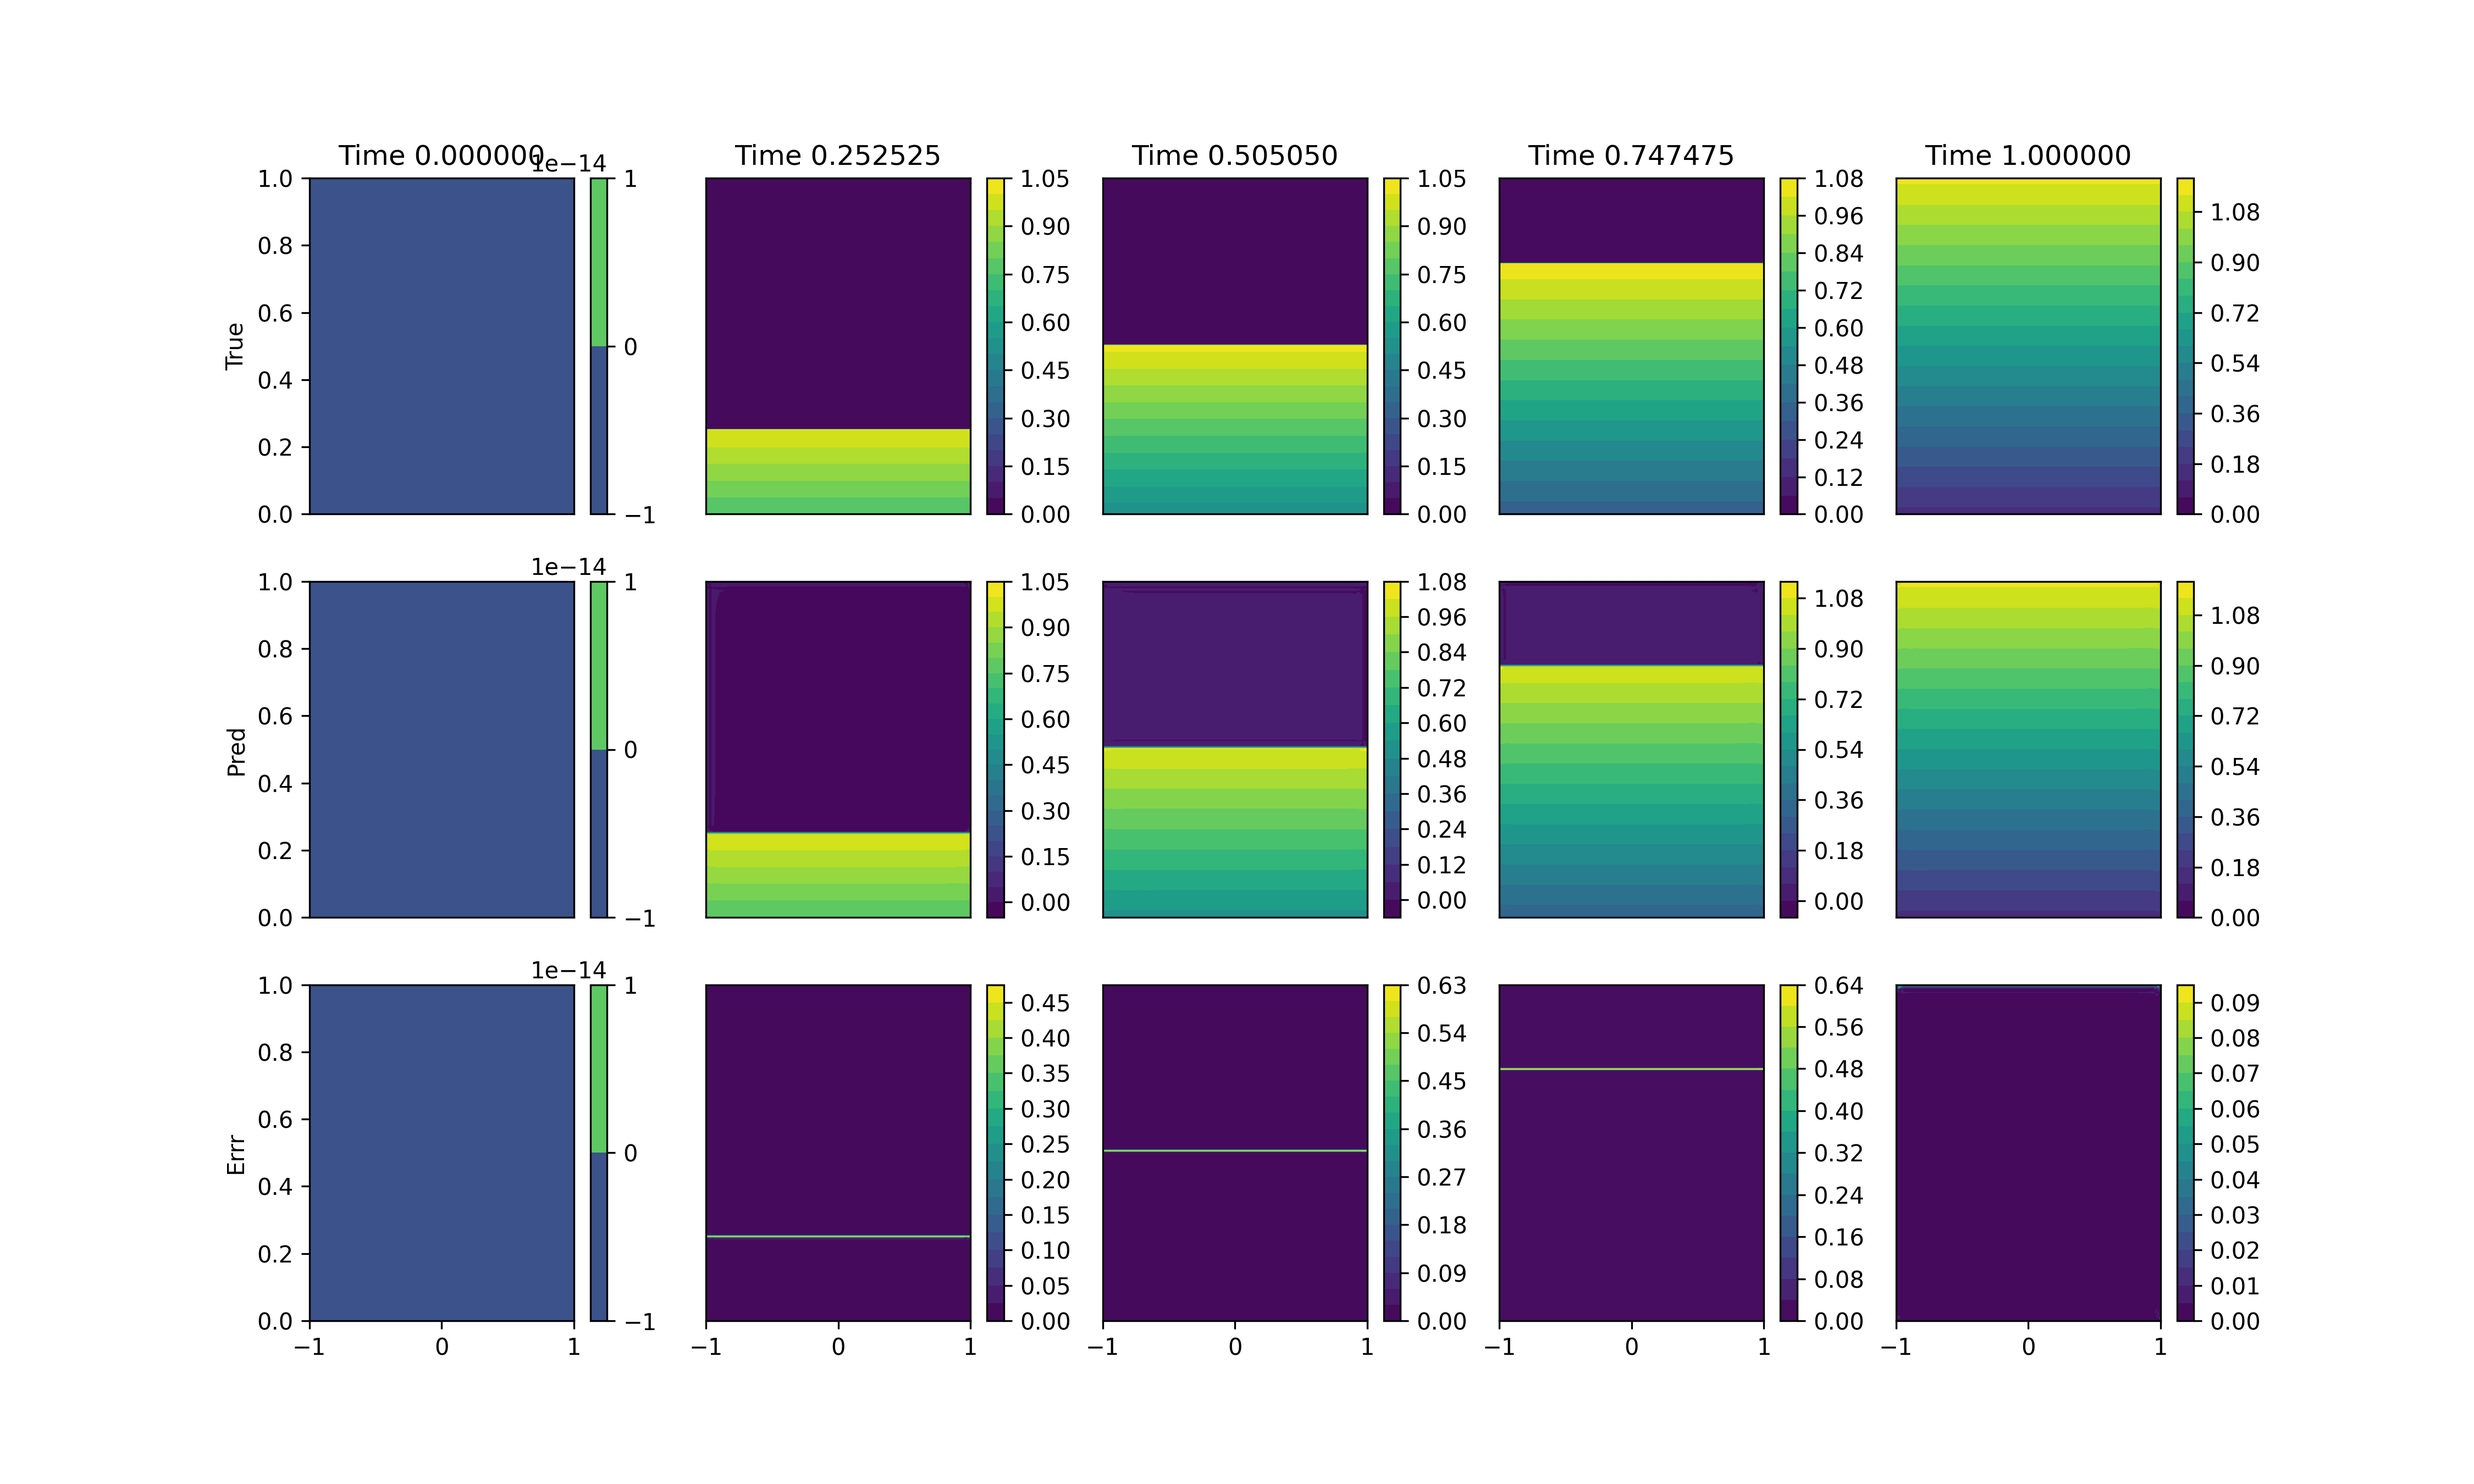
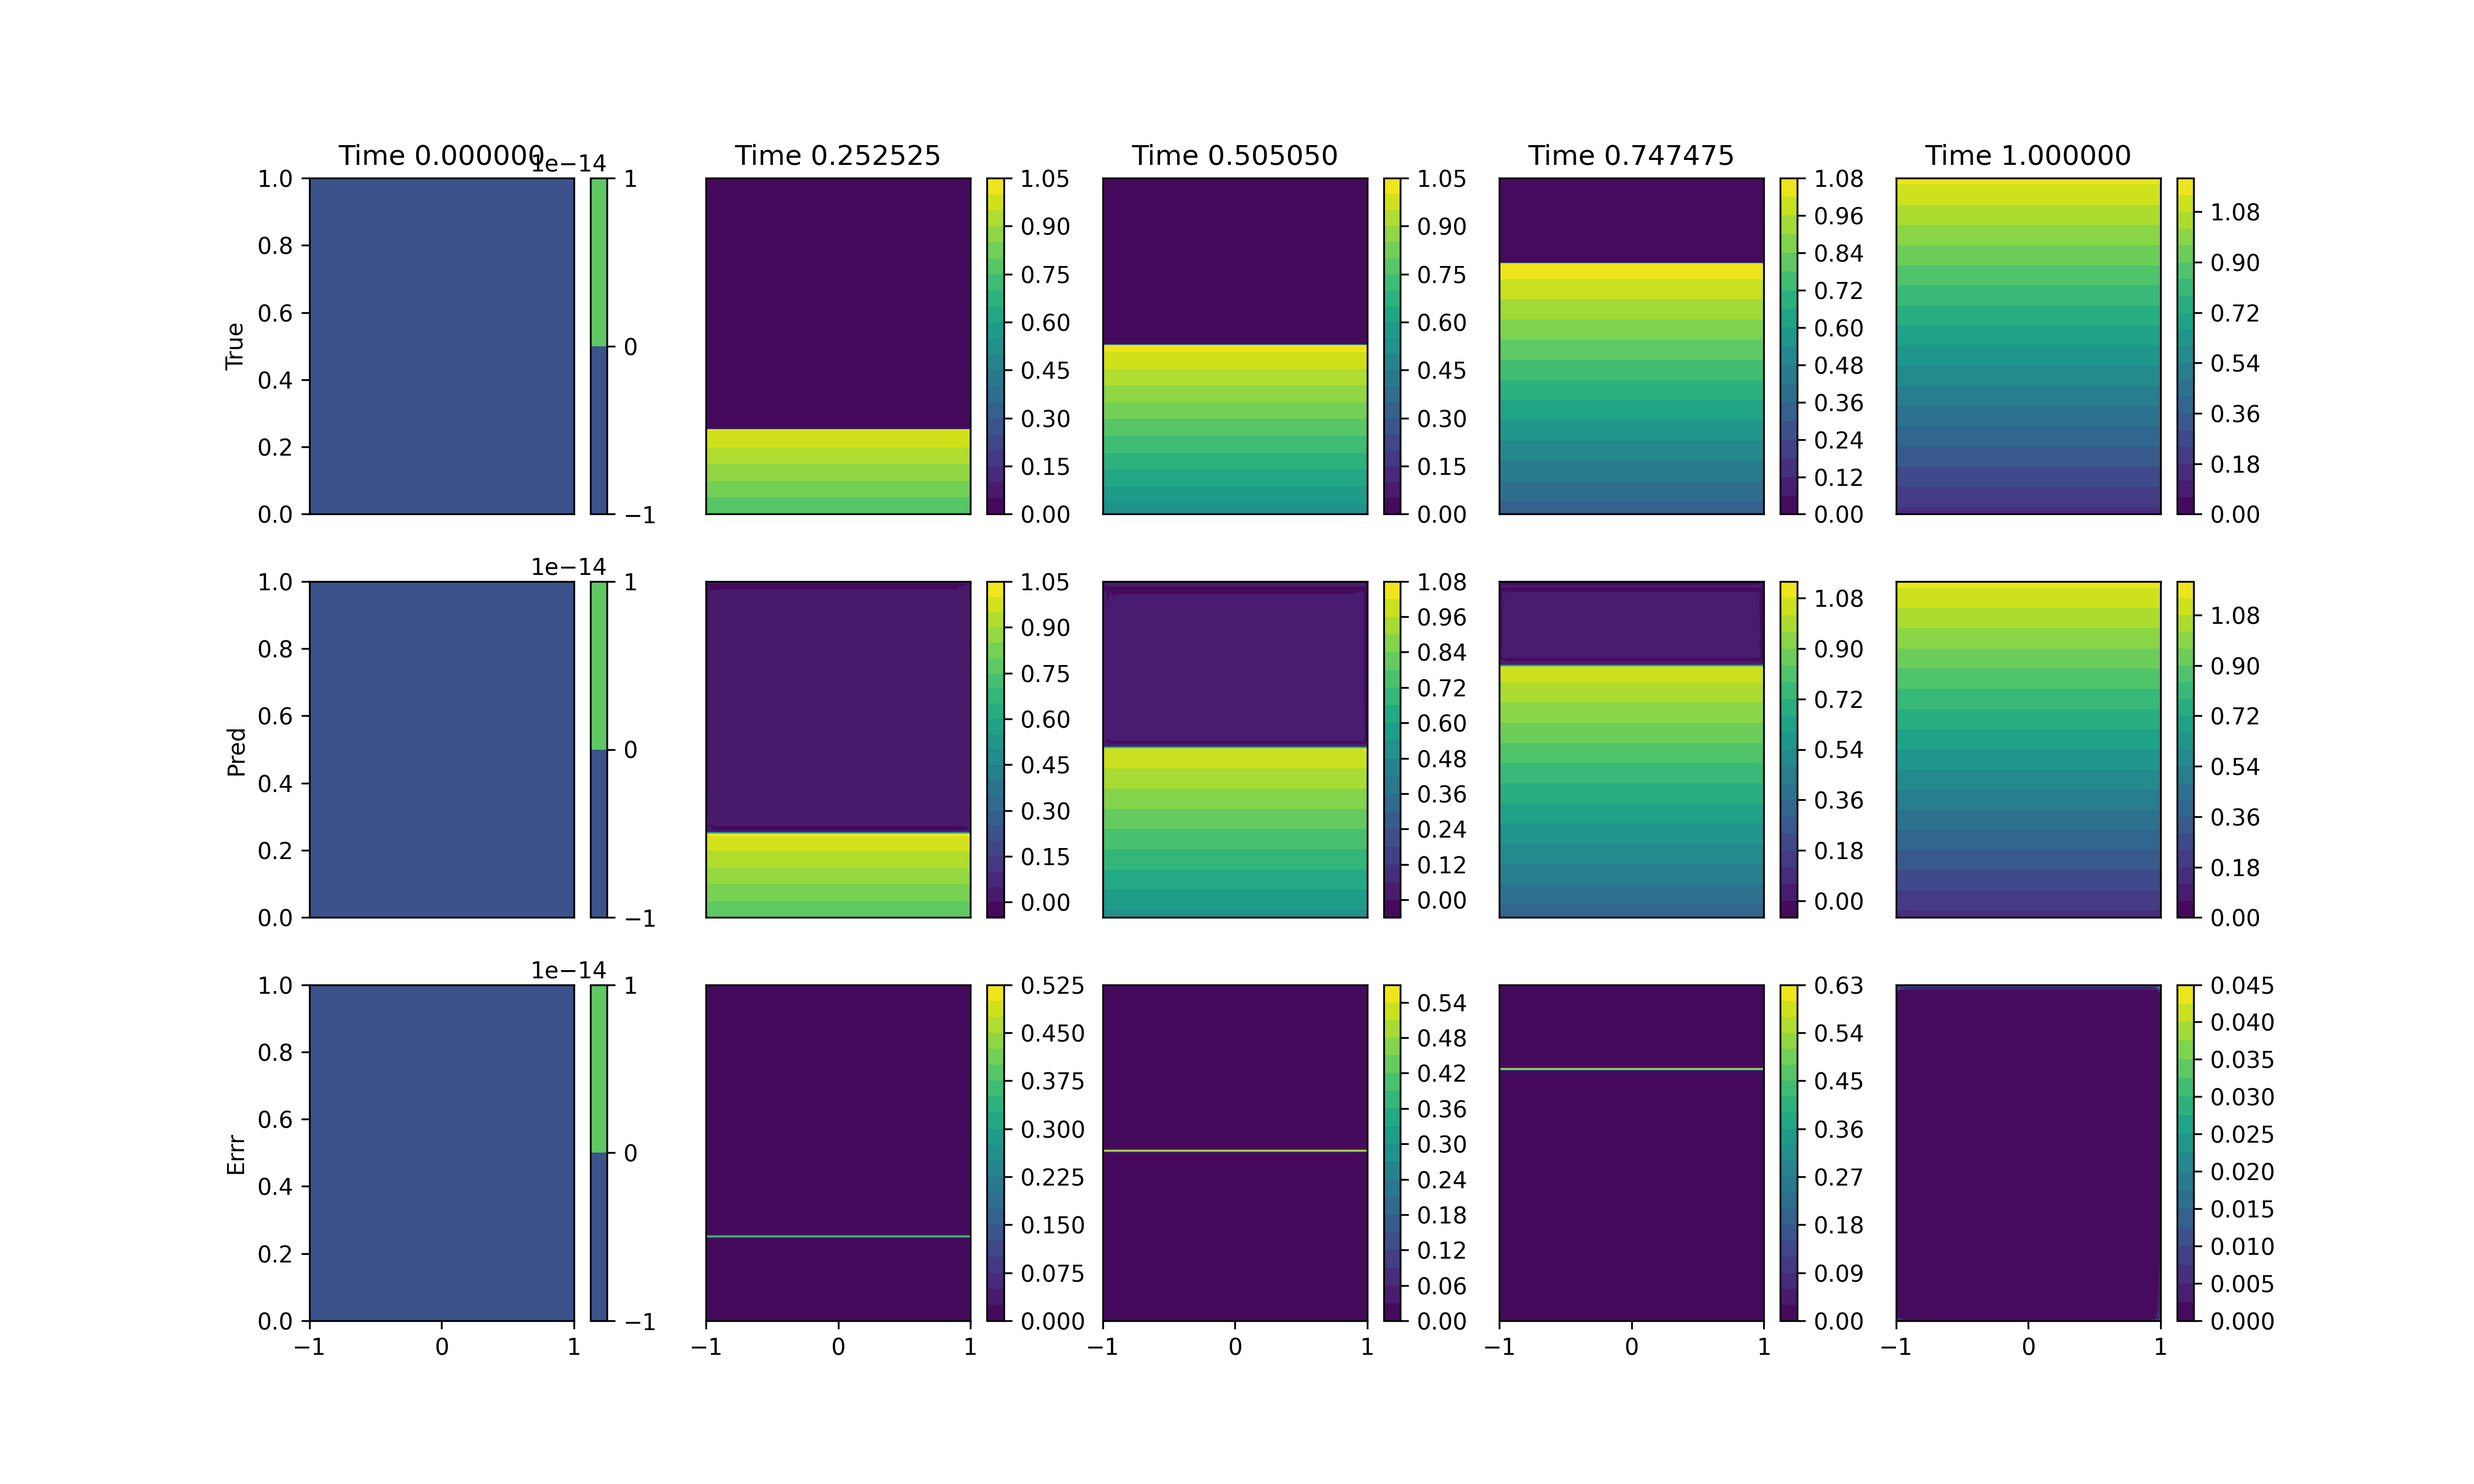
autoregressive plots

diff --git a/sandbox/__main__.py b/sandbox/__main__.py
@@ -15,6 +15,27 @@ import argparse
 import sandbox
 import mlutils
 
+def train_loop(model, lrs=None, nepochs=None, **kw):
+
+    if lrs is None:
+        lrs = [1e-3, 5e-4, 1e-4, 5e-5, 1e-5]
+
+    if nepochs is None:
+        nepochs = [2, 5, 10, 10, 10]
+
+    assert len(lrs) == len(nepochs)
+
+    for i in range(len(lrs)):
+        kw = {
+            **kw,
+            "lr" : lrs[i],
+            "nepochs" : nepochs[i],
+        }
+        trainer = mlutils.Trainer(model, data, **kw)
+        trainer.train()
+
+    return model
+
 class MaskedUNet(nn.Module):
     def __init__(self, shape, ci, co, k):
         super().__init__()
@@ -31,8 +52,9 @@ class MaskedUNet(nn.Module):
 
 def train_cnn_nextstep(device, outdir, resdir, name, train=True):
 
-    modelfile = outdir + "cnn_nextstep_" + name + ".pth"
-    imagefile = resdir + "cnn_nextstep_" + name + ".png"
+    modelfile  = outdir + "cnn_nextstep_" + name + ".pth"
+    imagefile1 = resdir + "cnn_nextstep_" + name + ".png"
+    imagefile2 = resdir + "cnn_nextstep_" + name + "_autoregressive" + ".png"
 
     # DATA
     if name == "hourglass":
@@ -55,29 +77,32 @@ def train_cnn_nextstep(device, outdir, resdir, name, train=True):
 
     # TRAIN
     if train:
-        lrs = [1e-3, 5e-4, 1e-4, 5e-5, 1e-5]
-        nes = [   2,    5,   10,   10,   10]
-        for i in range(len(lrs)):
-            kw = {
-                "device" : device,
-                "lr" : lrs[i],
-                "_batch_size" : 1,
-                "nepochs" : nes[i],
-            }
-            trainer = mlutils.Trainer(model, data, **kw)
-            trainer.train()
-
+        train_loop(model, device=device, _batch_size=1)
         torch.save(model.to("cpu").state_dict(), modelfile)
 
     # VISUALIZE
+    model.eval()
     model.load_state_dict(torch.load(modelfile, weights_only=True))
 
-    model.eval()
-    xztT, _ = data[:]
-    pred = (model(xztT) + xztT[:, -1].unsqueeze(1)).squeeze(1)
+    with torch.no_grad():
+        xztT, _ = data[:]
 
-    fig = shape.comparison_plot(pred, nextstep=True)
-    fig.savefig(imagefile, dpi=300)
+        pred1 = (model(xztT) + xztT[:, -1].unsqueeze(1)).squeeze(1)
+        pred1 = torch.cat([xztT[0, -1].unsqueeze(0), pred1], dim=0)
+
+        fig1 = shape.comparison_plot(pred1)
+        fig1.savefig(imagefile1, dpi=300)
+
+        preds2 = []
+        preds2.append(xztT[0, -1].unsqueeze(0))
+        for i in range(xztT.shape[0]):
+            pred2 = preds2[-1]
+            pred2 = pred2 + model(xztT[i].unsqueeze(0)).squeeze(1)
+            preds2.append(pred2)
+        pred2 = torch.cat(preds2, dim=0)
+
+        fig2 = shape.comparison_plot(pred2)
+        fig2.savefig(imagefile2, dpi=300)
 
     return
 
@@ -106,18 +131,7 @@ def train_cnn(device, outdir, resdir, name, train=True):
 
     # TRAIN
     if train:
-        lrs = [1e-3, 5e-4, 1e-4, 5e-5, 1e-5]
-        nes = [   2,    5,   10,   10,   10]
-        for i in range(len(lrs)):
-            kw = {
-                "device" : device,
-                "lr" : lrs[i],
-                "_batch_size" : 1,
-                "nepochs" : nes[i],
-            }
-            trainer = mlutils.Trainer(model, data, **kw)
-            trainer.train()
-
+        train_loop(model, device=device, _batch_size=1)
         torch.save(model.to("cpu").state_dict(), modelfile)
 
     # VISUALIZE
@@ -178,16 +192,7 @@ def train_scalar_cnn(device, outdir, resdir, name, train=True):
     
     # TRAIN
     if train:
-        for lr in [1e-3, 5e-4, 1e-4, 5e-5, 1e-5]:
-            kw = {
-                "device" : device,
-                "lr" : lr,
-                "_batch_size" : 1,
-                "nepochs" : 20,
-            }
-            trainer = mlutils.Trainer(model, data, **kw)
-            trainer.train()
-        
+        train_loop(model, device=device, _batch_size=1)
         torch.save(model.to("cpu").state_dict(), modelfile)
 
     # VISUALIZE
@@ -226,19 +231,7 @@ def train_mlp_sdf(device, outdir, resdir, train=True):
 
     # TRAIN
     if train:
-        for lr in [1e-3, 5e-4, 1e-4, 5e-5, 1e-5]:
-            kw = {
-                "device" : device,
-                "lr" : lr,
-                "_batch_size" : 128,
-                "nepochs" : 5,
-                "Schedule" : None,
-                "lossfun" : nn.L1Loss(),
-            }
-
-            trainer = mlutils.Trainer(model, _data, data_, **kw)
-            trainer.train()
-
+        train_loop(model, device=device, _batch_size=128, lossfun=nn.L1Loss())
         torch.save(model.to("cpu").state_dict(), modelfile)
 
     # VISUALIZE
@@ -274,17 +267,7 @@ def train_mlp(device, outdir, resdir, name, train=True):
 
     # TRAIN
     if train:
-        for lr in [1e-3, 5e-4, 1e-4, 5e-5, 1e-5]:
-            kw = {
-                "device" : device,
-                "lr" : lr,
-                "_batch_size" : 512,
-                "nepochs" : 10,
-                "Schedule" : None,
-            }
-            trainer = mlutils.Trainer(model, _data, data_, **kw)
-            trainer.train()
-        
+        train_loop(model, device=device, _batch_size=512)
         torch.save(model.to("cpu").state_dict(), modelfile)
 
     # VISUALIZE
@@ -360,8 +343,8 @@ if __name__ == "__main__":
     # train_cnn(device, outdir, resdir, "alldomain")
     # train_cnn(device, outdir, resdir, "hourglass")
 
-    # train_cnn_nextstep(device, outdir, resdir, "alldomain")
-    # train_cnn_nextstep(device, outdir, resdir, "hourglass")
+    # train_cnn_nextstep(device, outdir, resdir, "alldomain", train=False)
+    # train_cnn_nextstep(device, outdir, resdir, "hourglass", train=False)
 
     # train_scalar_cnn(device, outdir, resdir, "alldomain")
     # train_scalar_cnn(device, outdir, resdir, "hourglass")

diff --git a/sandbox/dataset.py b/sandbox/dataset.py
@@ -76,6 +76,7 @@ def makedata(
         # batches over time-dimension
         point = torch.stack(point, dim=1)
         value = torch.stack(value, dim=1) # [N, C, H, W]
+        # point = point * M3D.unsqueeze(1)
         value = value * M3D.unsqueeze(1)
 
         point = point[0:-1] 
@@ -92,39 +93,4 @@ def makedata(
         return data
     else:
         return torch.utils.data.random_split(data, split)
-#
-
-# class PointwiseDataset(Dataset):
-#     def __init__(self, nx, nz, nt, nw1=None, nw2=None):
-#         self.shape = SandboxShape(nx, nz, nt, nw1=nw1, nw2=nw2)
-#         return
-#
-#     def __len__(self):
-#         return (self.shape.nx * self.shape.nz * self.shape.nt)
-#
-#     def __getitems__(self, idx):
-#         idx = torch.tensor(idx).to(torch.int) # list -> tensor
-#
-#         nx = self.shape.nx
-#         nz = self.shape.nz
-#         nt = self.shape.nt
-#
-#         # get indices
-#         it  = torch.floor(idx / (nx * nz)) % nt
-#         ixz = idx - (it * nt)
-#         iz  = torch.floor(ixz / nx)        % nz # extra % never hurts
-#         ix  = (ixz % nz)                   % nx
-#
-#         x = self.shape.x[ix.to(int)]
-#         z = self.shape.z[iz.to(int)]
-#         t = self.shape.t[it.to(int)]
-#
-#         mask, temp, disp, sdf = self.shape.fields(x, z, t)
-#
-#         point = torch.stack([x, z, t], dim=1)
-#         value = torch.stack([temp], dim=1)
-#
-#         # return point, value
-#         return [(point[i], value[i]) for i in range(point.size(0))]
-
 #

diff --git a/sandbox/shape.py b/sandbox/shape.py
@@ -132,9 +132,6 @@ class Shape:
 
         _, (_, temp, _, _) = self.fields_dense()
 
-        if nextstep: # contains [1:nt-1] so we cat [0]
-            pred = torch.cat([temp[0].unsqueeze(0), pred], dim=0)
-
         assert pred.shape == temp.shape
 
         fig, axs = plt.subplots(ncols=5, nrows=3, figsize = (15, 9))
@@ -154,7 +151,6 @@ class Shape:
         it_plt = torch.round(it_plt).to(torch.int).numpy(force=True)
 
         for (i, it) in enumerate(it_plt):
-            it = it
             axs[0, i].set_title(f"Time {t[it].item():2f}")
 
             p0 = axs[0, i].contourf(x, z, temp[it, :, :], levels=20, cmap='viridis')
